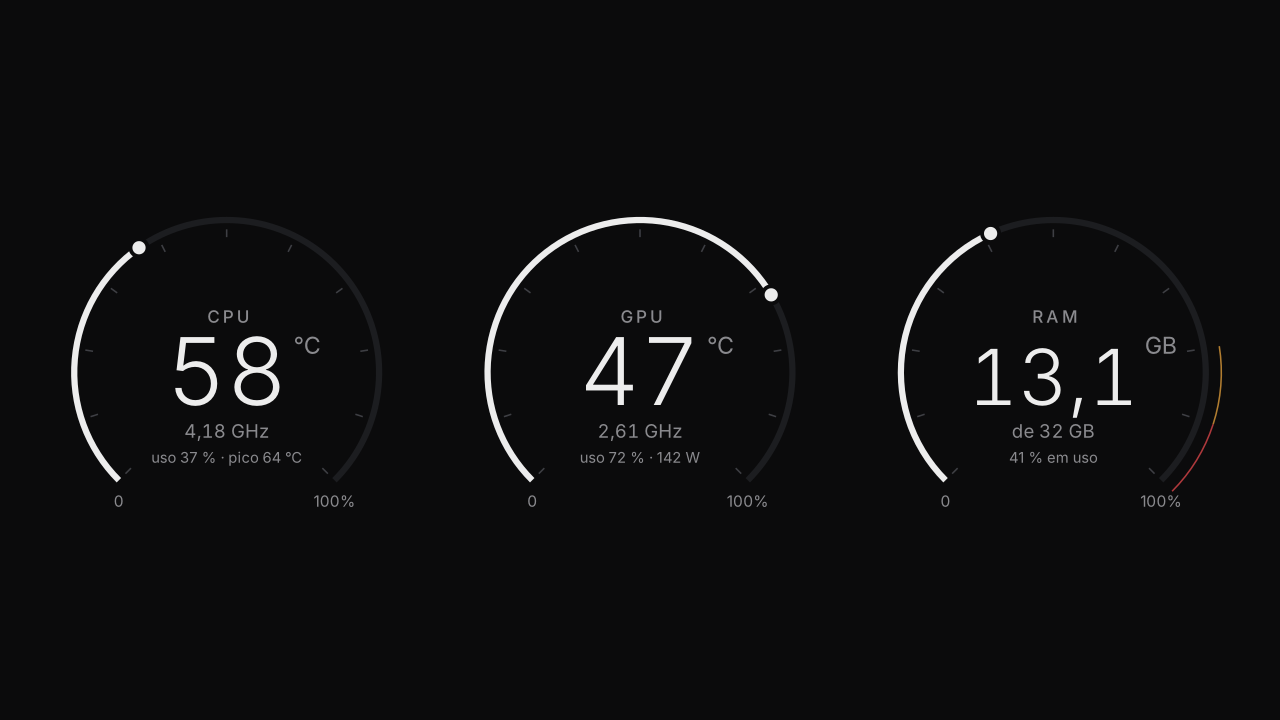
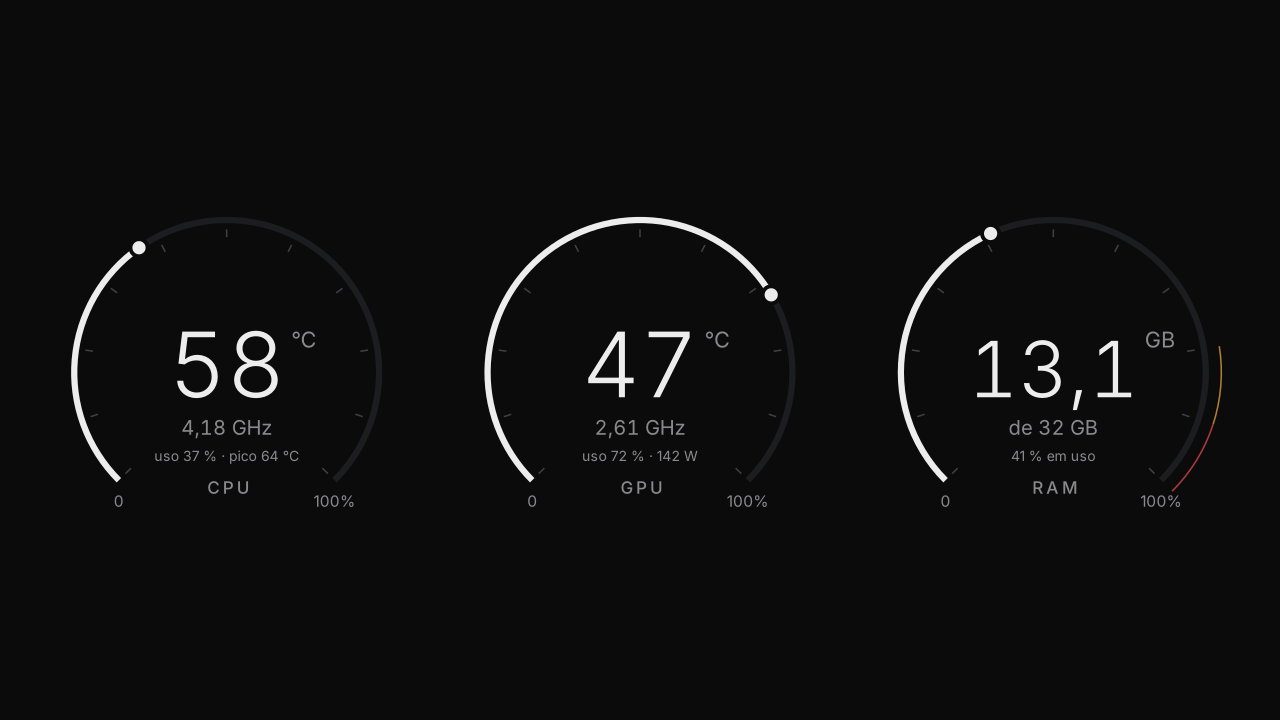
Manômetros 0.2.3: mostradores menos amontoados
- O nome (CPU, GPU, RAM) desceu para o vão de baixo do arco, como nos manômetros de carro
- No meio ficam só a temperatura (ou os GB) e, embaixo, o clock, com mais espaço
- Na janelinha, o alerta aparece só pela cor (número, arco e nome), sem a palavra escrita
- Menos marcas no arco e mostradores um pouco maiores (janelinha 604 x 179)

Claude-Session: https://claude.ai/code/session_01TvJtSEEhpPTpwqofc174wj

diff --git a/manometros/desenho.py b/manometros/desenho.py
@@ -134,12 +134,14 @@ class Mostrador:
 
     VB = (10, 24, 480, 420)
     # No modo compacto (janelinha) traços e textos ficam proporcionalmente maiores.
-    NORMAL = {"trilho": 8, "faixa": 2, "marca": 2, "botao": (13.5, 8.5), "titulo": (22, 186, 500, 4),
-              "num": (120, 292), "unid": (30, 226, 8), "linha": (24, 334), "sub": (19, 366),
-              "estado": (18, 394), "pontas": True}
-    COMPACTO = {"trilho": 16, "faixa": 5, "marca": 4, "botao": (22, 14), "titulo": (46, 176, 600, 5),
-                "num": (150, 318), "unid": (48, 248, 10), "linha": (38, 366), "sub": None,
-                "estado": (40, 410), "pontas": False}
+    # O título ("CPU") fica no vão de baixo do arco, como nos manômetros de carro;
+    # no meio ficam só o número grande e, embaixo dele, a linha pequena (clock).
+    NORMAL = {"trilho": 8, "faixa": 2, "marca": 2, "passo": 10, "botao": (13.5, 8.5),
+              "titulo": (22, 406, 500, 4), "num": (116, 282), "unid": (28, 218, 8), "linha": (26, 330),
+              "sub": (18, 364), "estado_escrito": True, "pontas": True}
+    COMPACTO = {"trilho": 14, "faixa": 5, "marca": 3, "passo": 25, "botao": (20, 12.5),
+                "titulo": (34, 412, 600, 5), "num": (128, 282), "unid": (34, 220, 8), "linha": (32, 344),
+                "sub": None, "estado_escrito": False, "pontas": False}
     LARG_MAX_NUMERO = 220  # o número encolhe se ficar mais largo que isso (ex.: "101,3")
 
     def __init__(self, titulo, unidade, alerta=None, critico=None):
@@ -177,15 +179,13 @@ class Mostrador:
             cr.stroke()
         cr.set_line_width(d["marca"])
         cor(cr, FAINT)
-        for v in range(0, 101, 10):
+        for v in range(0, 101, d["passo"]):
             _traco(cr, v, 0, 100, 178 - d["trilho"] / 2, 188 - d["trilho"] / 2)
         cr.stroke()
         if d["pontas"]:
             for v in (0, 100):
                 px, py = _pt(196, _ang(v, 0, 100))
                 texto(cr, f"{v}%" if v else "0", px, py + 34, 20, 400, MUTED, "centro")
-        tam, yb, peso, esp = d["titulo"]
-        texto(cr, self.titulo, 250, yb, tam, peso, MUTED, "centro", espaco=esp)
         cr.restore()
 
     def dinamico(self, cr, x, y, larg, arco, numero, estado="normal", sub="", destaque=INK, pulso=1.0, linha=""):
@@ -227,9 +227,12 @@ class Mostrador:
         if sub and d["sub"]:
             ts, ys = d["sub"]
             texto(cr, sub, 250, ys, ts, 400, MUTED, "centro")
-        if estado != "normal":
-            te, ye = d["estado"]
-            texto(cr, "ALERTA" if estado == "alerta" else "CRÍTICO", 250, ye, te, 600, c_num, "centro", espaco=4)
+        # título no vão de baixo: cinza no normal, na cor do alerta quando for o caso
+        tt, yt, peso, esp = d["titulo"]
+        titulo = self.titulo
+        if estado != "normal" and d["estado_escrito"]:
+            titulo += " · " + ("ALERTA" if estado == "alerta" else "CRÍTICO")
+        texto(cr, titulo, 250, yt, tt, peso, MUTED if estado == "normal" else c_num, "centro", espaco=esp)
         cr.restore()
 
 
@@ -250,9 +253,10 @@ class Painel:
             "ram": Mostrador("RAM", "GB", r["alerta"], r["critico"]),
         }
         if self.layout == "janela":
-            self.W, self.H = 520.0, 164.0
-            gl = 150
-            self.g = {k: (x, 14, gl) for k, x in zip(("cpu", "gpu", "ram"), (20, 185, 350))}
+            gl, gap, pad = 168, 28, 22
+            self.W = 2 * pad + 3 * gl + 2 * gap
+            self.H = 18 + self.m["cpu"].altura(gl) + 14
+            self.g = {k: (pad + i * (gl + gap), 18, gl) for i, k in enumerate(("cpu", "gpu", "ram"))}
         elif self.layout == "inteiro":
             self.W, self.H = 1920.0, 1080.0
             gl, gap = 560, 60

diff --git a/manometros/__init__.py b/manometros/__init__.py
@@ -1,3 +1,3 @@
 """Manômetros: painel de monitoramento estilo painel de carro para Linux."""
-__version__ = "0.2.2"
+__version__ = "0.2.3"
 REPOSITORIO = "pauloestefani/manometros"
